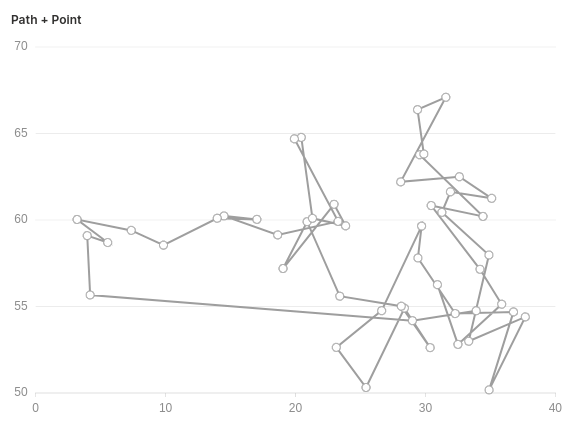
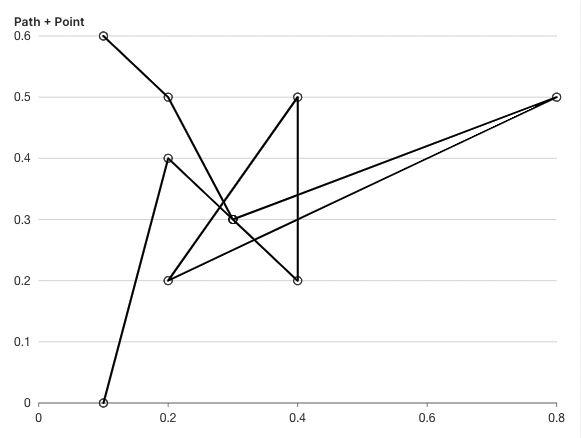
feat: normalize plot_path examples

diff --git a/py/examples/plot_path_point.py b/py/examples/plot_path_point.py
@@ -1,22 +1,29 @@
 # Plot / Path / Point
 # Make a path #plot with an additional layer of points.
 # ---
-from synth import FakeScatter
 from h2o_wave import site, data, ui
 
 page = site['/demo']
 
-n = 50
-f = FakeScatter()
-v = page.add('example', ui.plot_card(
+page.add('example', ui.plot_card(
     box='1 1 4 5',
     title='Path + Point',
-    data=data('profit sales', n),
+    data=data('price performance', 10, rows=[
+        (0.1, 0.6),
+        (0.2, 0.5),
+        (0.3, 0.3),
+        (0.4, 0.2),
+        (0.4, 0.5),
+        (0.2, 0.2),
+        (0.8, 0.5),
+        (0.3, 0.3),
+        (0.2, 0.4),
+        (0.1, 0.0),
+    ]),
     plot=ui.plot([
-        ui.mark(type='path', x='=profit', y='=sales'),
-        ui.mark(type='point', x='=profit', y='=sales'),
+        ui.mark(type='path', x='=price', y='=performance'),
+        ui.mark(type='point', x='=price', y='=performance'),
     ])
 ))
-v.data = [(x, y) for x, y in [f.next() for _ in range(n)]]
 
 page.save()

diff --git a/py/examples/plot_path_smooth.py b/py/examples/plot_path_smooth.py
@@ -1,19 +1,26 @@
 # Plot / Path / Smooth
 # Make a path #plot with a smooth curve.
 # ---
-from synth import FakeScatter
 from h2o_wave import site, data, ui
 
 page = site['/demo']
 
-n = 50
-f = FakeScatter()
-v = page.add('example', ui.plot_card(
+page.add('example', ui.plot_card(
     box='1 1 4 5',
     title='Path, smooth',
-    data=data('profit sales', n),
-    plot=ui.plot([ui.mark(type='path', x='=profit', y='=sales', curve='smooth')])
+    data=data('price performance', 10, rows=[
+        (0.1, 0.6),
+        (0.2, 0.5),
+        (0.3, 0.3),
+        (0.4, 0.2),
+        (0.4, 0.5),
+        (0.2, 0.2),
+        (0.8, 0.5),
+        (0.3, 0.3),
+        (0.2, 0.4),
+        (0.1, 0.0),
+    ]),
+    plot=ui.plot([ui.mark(type='path', x='=price', y='=performance', curve='smooth')])
 ))
-v.data = [(x, y) for x, y in [f.next() for _ in range(n)]]
 
 page.save()

diff --git a/py/examples/plot_path.py b/py/examples/plot_path.py
@@ -1,19 +1,26 @@
 # Plot / Path
 # Make a path #plot.
 # ---
-from synth import FakeScatter
 from h2o_wave import site, data, ui
 
 page = site['/demo']
 
-n = 50
-f = FakeScatter()
-v = page.add('example', ui.plot_card(
-    box='1 1 4 5',
+page.add('example', ui.plot_card(
+    box='1 1 5 5',
     title='Path',
-    data=data('profit sales', n),
-    plot=ui.plot([ui.mark(type='path', x='=profit', y='=sales')])
+        data=data('price performance', 10, rows=[
+        (0.1, 0.6),
+        (0.2, 0.5),
+        (0.3, 0.3),
+        (0.4, 0.2),
+        (0.4, 0.5),
+        (0.2, 0.2),
+        (0.8, 0.5),
+        (0.3, 0.3),
+        (0.2, 0.4),
+        (0.1, 0.0),
+    ]),
+    plot=ui.plot([ui.mark(type='path', x='=price', y='=performance')])
 ))
-v.data = [(x, y) for x, y in [f.next() for _ in range(n)]]
 
 page.save()

diff --git a/website/widgets/plots/path.md b/website/widgets/plots/path.md
@@ -9,7 +9,7 @@ Use this type of plot to show the deflection of many data points at the same tim
 from h2o_wave import data
 
 q.page['example'] = ui.plot_card(
-    box='1 1 4 5',
+    box='1 1 5 5',
     title='Path',
     data=data('price performance', 10, rows=[
         (0.1, 0.6),
